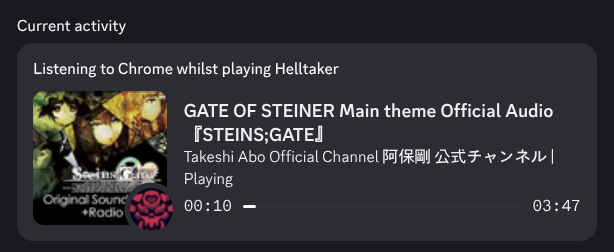
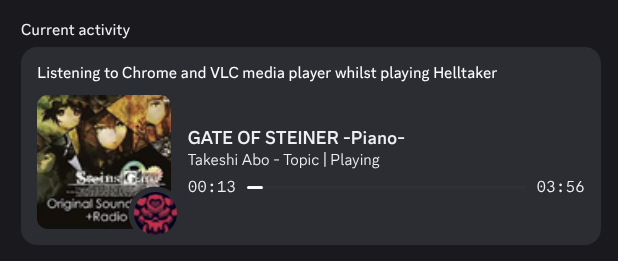
Add better multiactivity support

diff --git a/main.py b/main.py
@@ -48,46 +48,90 @@ while True:
         time.sleep(config["general"]["activity_cooldown_time"] - (time.time() - last_activity_ping)) # Cooldown or Discord won't respect our updates at all!
         continue
 
+    
+    handler_responses: dict[str, list[HandlerResponse]] = {}
+    for handler_name in config["general"]["enabled_handlers"]:
+        handler = handlers[handler_name]
+        handler_responses[handler_name] = handler.get_responses()
+    
     activity = None
     sent_activity = False
     cumulative_hash = ""
-    handled_pids = []
-    for handler_name in config["general"]["enabled_handlers"]:
-        handler = handlers[handler_name]
-        handler_response = handler.get_response()
-        response_hash = handler_response.get_hash()
-        response_pid = handler_response.get_pid()
-        response_activity = handler_response.get_activity()
-        if (response_activity == None or response_hash == None):
-            continue
-        if (response_pid in handled_pids): # Don't have one handler accidentally do the same application
-            continue
+    handled_pids: list[int] = []
+    matching_type_activity_names = []
+    grouped_activity_prefix_names: dict[str, str] = {}
+    activity_count: int = 0
+    for i in range(len(config["general"]["enabled_handlers"])):
+        if (activity_count == config["general"]["max_activities"]):
+            break
 
-        cumulative_hash += response_hash
-        handled_pids.append(response_pid)
-        if (activity == None):
-            activity = response_activity
+        handler_name = config["general"]["enabled_handlers"][i]
+        if (len(handler_responses[handler_name]) == 0):
             continue
 
-        activity.name += f" whilst {handler_response.get_prefix()} " + response_activity.name
-        activity.buttons.extend(response_activity.buttons)
-        activity.buttons = activity.buttons[:2] # Max of two items!!!
-        if (response_activity.assets != None):
-            if (activity.assets == None):
-                activity.assets = DiscordActivityAssets()
+        responses_to_parse = handler_responses[handler_name]
+        should_add_multiple_responses = True # Should multiple responses from this handler be parsed? - We try to prefer grouping responses from more diverse handlers
+        if (activity != None):
+            future_activity_count = 0
+            for future_handler_name in config["general"]["enabled_handlers"][i+1:]:
+                future_activity_count += len(handler_responses[future_handler_name])
+            if (activity_count + len(responses_to_parse) + future_activity_count > config["general"]["max_activities"]):
+                should_add_multiple_responses = False # Essentially, we only do multiple responses from the SAME activity if it would not affect any subsequent activities
 
-            image_to_use = response_activity.assets.large_image
-            if (response_activity.assets.small_image != None):
-                image_to_use = response_activity.assets.small_image
+        
+        if (not should_add_multiple_responses):
+            responses_to_parse = responses_to_parse[:1] # If we're not the last handler, we should only parse one activity from this handler
 
-            if (image_to_use.text == None):
-                image_to_use.text = response_activity.name
+        for handler_response in responses_to_parse:
+            response_hash = handler_response.get_hash()
+            response_pid = handler_response.get_pid()
+            response_activity = handler_response.get_activity()
+            if (response_activity == None or response_hash == None):
+                continue
+            if (response_pid in handled_pids): # Don't have one handler accidentally do the same application
+                continue
 
-            if (activity.assets.large_image != None):
-                activity.assets.small_image = image_to_use
+            activity_count += 1
+            cumulative_hash += response_hash
+            if (response_pid):
+                handled_pids.append(response_pid)
+            if (activity == None):
+                activity = response_activity
+                matching_type_activity_names.append(response_activity.name)
+                continue
+
+            if (response_activity.type == activity.type):
+                matching_type_activity_names.append(response_activity.name)
             else:
-                activity.assets.large_image = image_to_use
-        break # We only allow two at most! @TODO Add support for more?
+                if (not handler_response.get_prefix() in grouped_activity_prefix_names):
+                    grouped_activity_prefix_names[handler_response.get_prefix()] = []
+                grouped_activity_prefix_names[handler_response.get_prefix()].append(response_activity.name)
+
+            activity.buttons.extend(response_activity.buttons)
+            activity.buttons = activity.buttons[:2] # Max of two items!!!
+            if (response_activity.assets != None):
+                if (activity.assets == None):
+                    activity.assets = DiscordActivityAssets()
+
+                image_to_use = response_activity.assets.large_image
+                if (response_activity.assets.small_image != None):
+                    image_to_use = response_activity.assets.small_image
+
+                if (image_to_use.text == None):
+                    image_to_use.text = response_activity.name
+
+                if (activity.assets.large_image == None):
+                    activity.assets.large_image = image_to_use
+                else:
+                    activity.assets.small_image = image_to_use
+            if (activity_count == config["general"]["max_activities"]):
+                break
+
+    # Construct final activity name
+    activity.name = ""
+    activity.name = " and ".join(matching_type_activity_names)
+    for activity_prefix in grouped_activity_prefix_names:
+        activity.name += f" whilst {activity_prefix} {' and '.join(grouped_activity_prefix_names[activity_prefix])}"
 
     if (activity != None and (should_update_activity or cumulative_hash != last_activity_hash)):
         print("Sending new activity!")

diff --git a/activity_handlers/mpris_handler.py b/activity_handlers/mpris_handler.py
@@ -90,7 +90,7 @@ class MPRISHandler(ActivityHandler):
     def __init__(self, context: HandlerContext):
         self.context = context
 
-    def get_response(self) -> HandlerResponse:
+    def get_responses(self) -> list[HandlerResponse]:
         session_bus = self.context.session_bus
         players: list[Player] = []
         for bus_name in session_bus.list_names():
@@ -134,42 +134,44 @@ class MPRISHandler(ActivityHandler):
         if (len(players) == 0):
             return HandlerResponse()
 
-        selected_player = players[0]
-        for player in players:
+        selected_player_index = 0
+        for i in range(len(players)):
+            player = players[i]
             if (player.get_status() == "Playing"):
-                selected_player = player
+                selected_player_index = i
                 break
-            if (player.get_start() > selected_player.get_start()):
-                selected_player = player
+            if (player.get_start() > players[selected_player_index].get_start()):
+                selected_player_index = i
 
-        if (selected_player.get_status() != "Playing"):
-            if (len(players) > 1):
-                return HandlerResponse()
+        responses = []
+        for player in players:
+            cover_url = player.upload_cover(self.context.config["general"]["server_url"], self.context.config["general"]["server_auth_key"])
+            activity = build_activity_from_format(
+                ACTIVITY_TYPE.LISTENING,
+                self.context.config["mpris_handler"]["activity_format"],
+                {
+                    "name": player.get_name(),
+                    "title": player.get_title(),
+                    "artist": player.get_artist(),
+                    "status": player.get_status(),
+                    "url": f"https://www.youtube.com/results?search_query={urllib.parse.quote_plus(str(player.get_artist()) + ' "' + str(player.get_title()) + '"')}",
+                    "cover_url": cover_url if cover_url else ""
+                }
+            )
 
-        cover_url = selected_player.upload_cover(self.context.config["general"]["server_url"], self.context.config["general"]["server_auth_key"])
-        activity = build_activity_from_format(
-            ACTIVITY_TYPE.LISTENING,
-            self.context.config["mpris_handler"]["activity_format"],
-            {
-                "name": selected_player.get_name(),
-                "title": selected_player.get_title(),
-                "artist": selected_player.get_artist(),
-                "status": selected_player.get_status(),
-                "url": f"https://www.youtube.com/results?search_query={urllib.parse.quote_plus(str(selected_player.get_artist()) + ' "' + str(selected_player.get_title()) + '"')}",
-                "cover_url": cover_url if cover_url else ""
-            }
-        )
-
-        activity.timestamps=DiscordActivityTimestamps(
-            start=selected_player.get_start(),
-            end=selected_player.get_end()
-        )        
-        
-        return HandlerResponse(
-            activity,
-            hash=selected_player.get_response_hash(),
-            pid=selected_player.get_pid()
-        )
+            activity.timestamps=DiscordActivityTimestamps(
+                start=player.get_start(),
+                end=player.get_end()
+            )
+            
+            responses.append(HandlerResponse(
+                activity,
+                hash=player.get_response_hash(),
+                pid=player.get_pid()
+            ))
+        responses.insert(0, responses[selected_player_index])
+        responses.pop(selected_player_index)
+        return responses
 
 
 

diff --git a/activity_handlers/steam_handler.py b/activity_handlers/steam_handler.py
@@ -51,7 +51,7 @@ class SteamHandler(ActivityHandler):
 
         return obtained
 
-    def get_response(self) -> HandlerResponse:
+    def get_responses(self) -> list[HandlerResponse]:
         running_games = []
         for proc in psutil.process_iter(['name', 'cmdline', 'create_time', 'pid']):
             if (proc.info["name"] == "reaper"):
@@ -69,6 +69,7 @@ class SteamHandler(ActivityHandler):
         running_games = running_games[-1::-1] # Flip
         
         app_infos = self.get_app_infos([game[0] for game in running_games])
+        responses = []
         for game in running_games:
             appid = game[0]
             create_time = game[1]
@@ -96,7 +97,7 @@ class SteamHandler(ActivityHandler):
                     "store_url": store_url
                 }
             )
-            return HandlerResponse(activity, pid=game[3])
-        return HandlerResponse()
+            responses.append(HandlerResponse(activity, pid=game[3]))
+        return responses
 
 ACTIVITY_HANDLER = SteamHandler

diff --git a/activity_handler.py b/activity_handler.py
@@ -42,7 +42,7 @@ class HandlerContext():
         self.session_bus = session_bus
 
 class HandlerResponse():
-    def __init__(self, activity: DiscordActivity|None = None, hash: str = None, prefix: str = None, pid: int = None):
+    def __init__(self, activity: DiscordActivity, hash: str = None, prefix: str = None, pid: int = None):
         self.activity = activity
         if (hash == None):
             self.hash: str = json.dumps(self.activity, cls=DiscordJSONEncoder)
@@ -64,12 +64,12 @@ class HandlerResponse():
     def get_hash(self) -> str:
         return self.hash
     
-    def get_activity(self) -> DiscordActivity|None:
+    def get_activity(self) -> DiscordActivity:
         return self.activity
 
 class ActivityHandler():
     def __init__(self, context: HandlerContext):
         pass
 
-    def get_response(self) -> HandlerResponse:
+    def get_responses(self) -> list[HandlerResponse]:
         pass

diff --git a/README.md b/README.md
@@ -42,3 +42,7 @@ buttons = []
 ## Process Handler Caveats
 - Process handler by default works only on KDE as it uses KWin's scripting API to get window PIDs
 - To use the process handler on non-KDE DEs set an explicit process `whitelist` in the configuration file
+
+## Troubleshooting
+### The progress reported by MPRIS whilst watching YouTube is wrong
+This is a bug in Chrome/YouTube itself, the following extension fixes it: [https://github.com/LurkAndLoiter/youtube-mpris-fix](https://github.com/LurkAndLoiter/youtube-mpris-fix)
